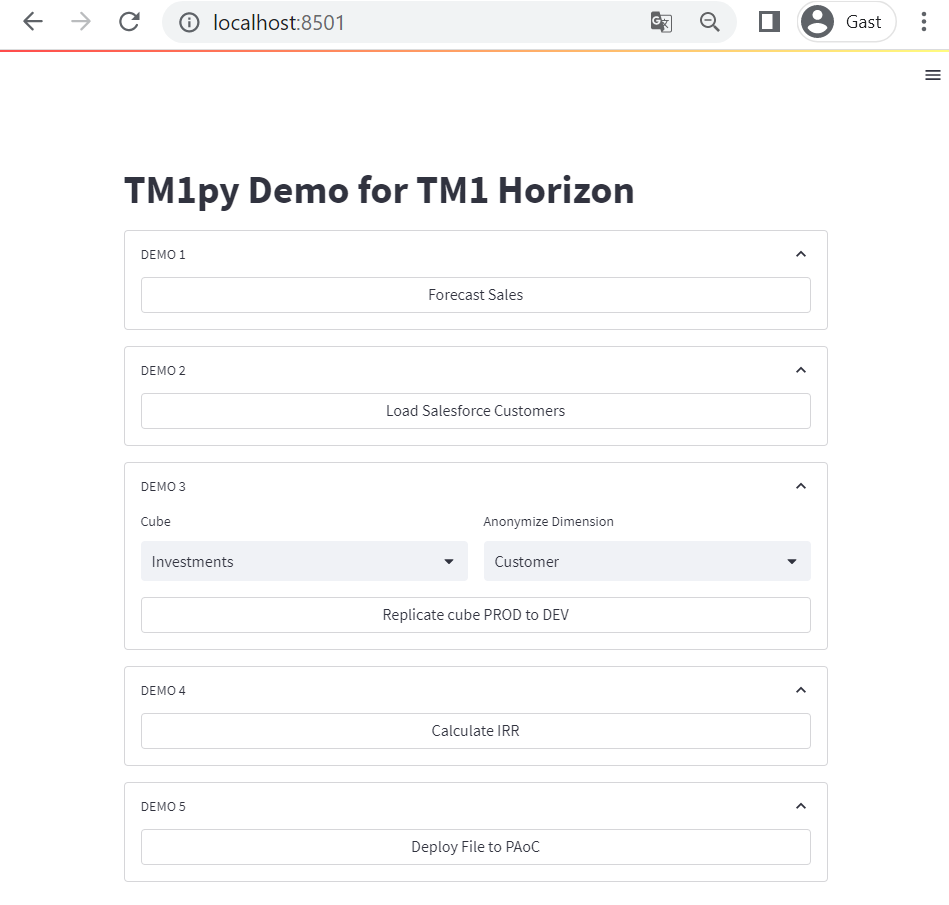
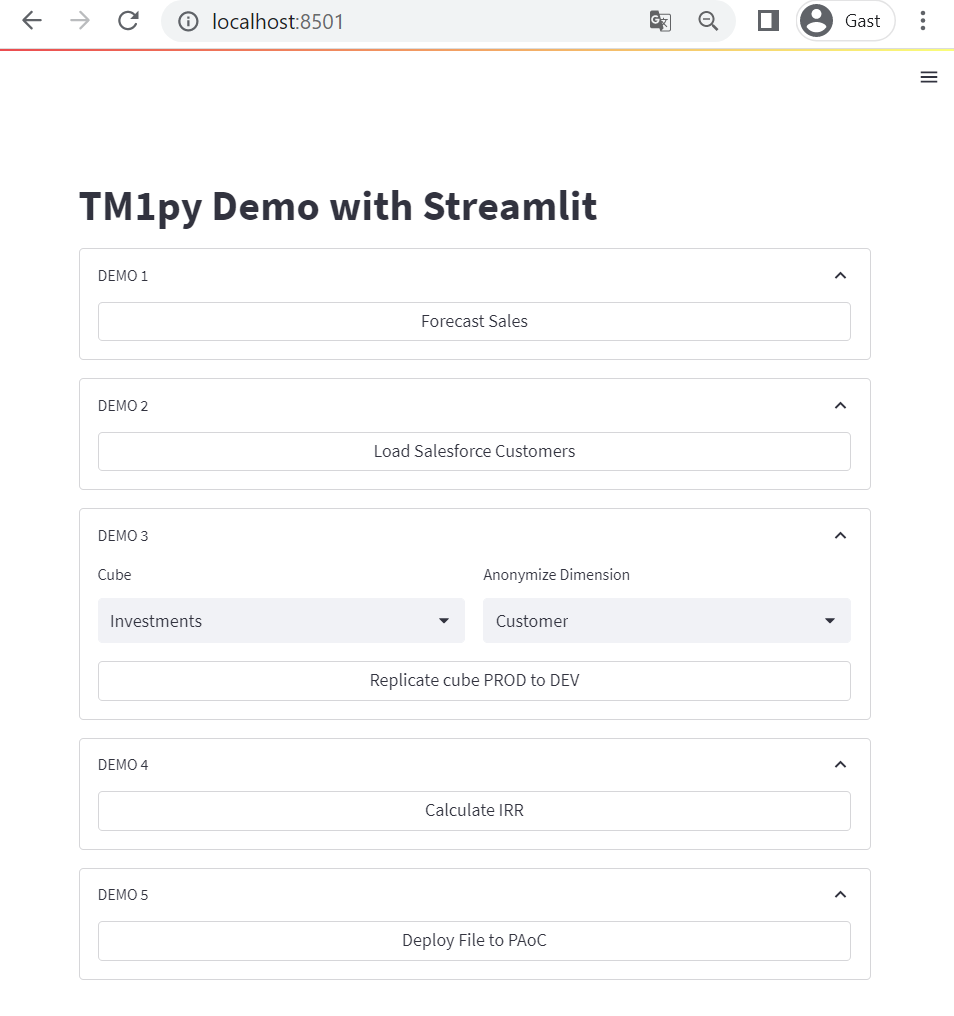
Update Title in App

diff --git a/app.py b/app.py
@@ -9,7 +9,7 @@ from prod_to_dev import prod_to_dev
 # streamlit run app.py
 
 
-st.title("TM1py Demo for TM1 Horizon")
+st.title("TM1py Demo with Streamlit")
 forecast_expander = st.expander("DEMO 1", expanded=True)
 with forecast_expander:
     st.button(label="Forecast Sales", use_container_width=True, on_click=forecast)
